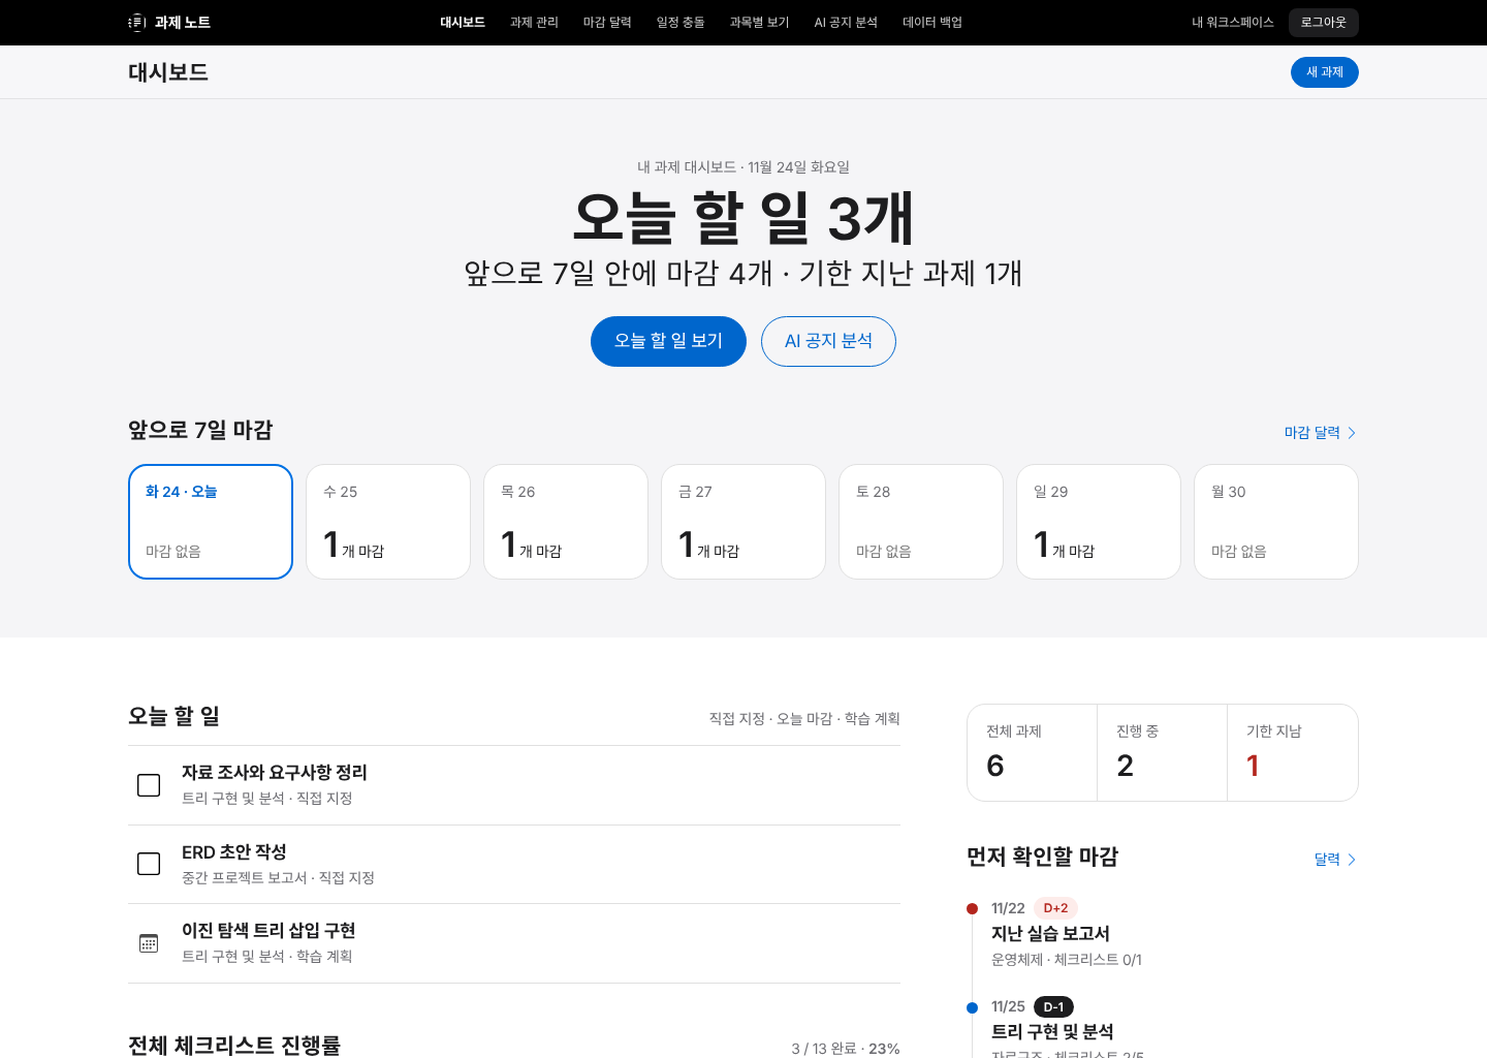
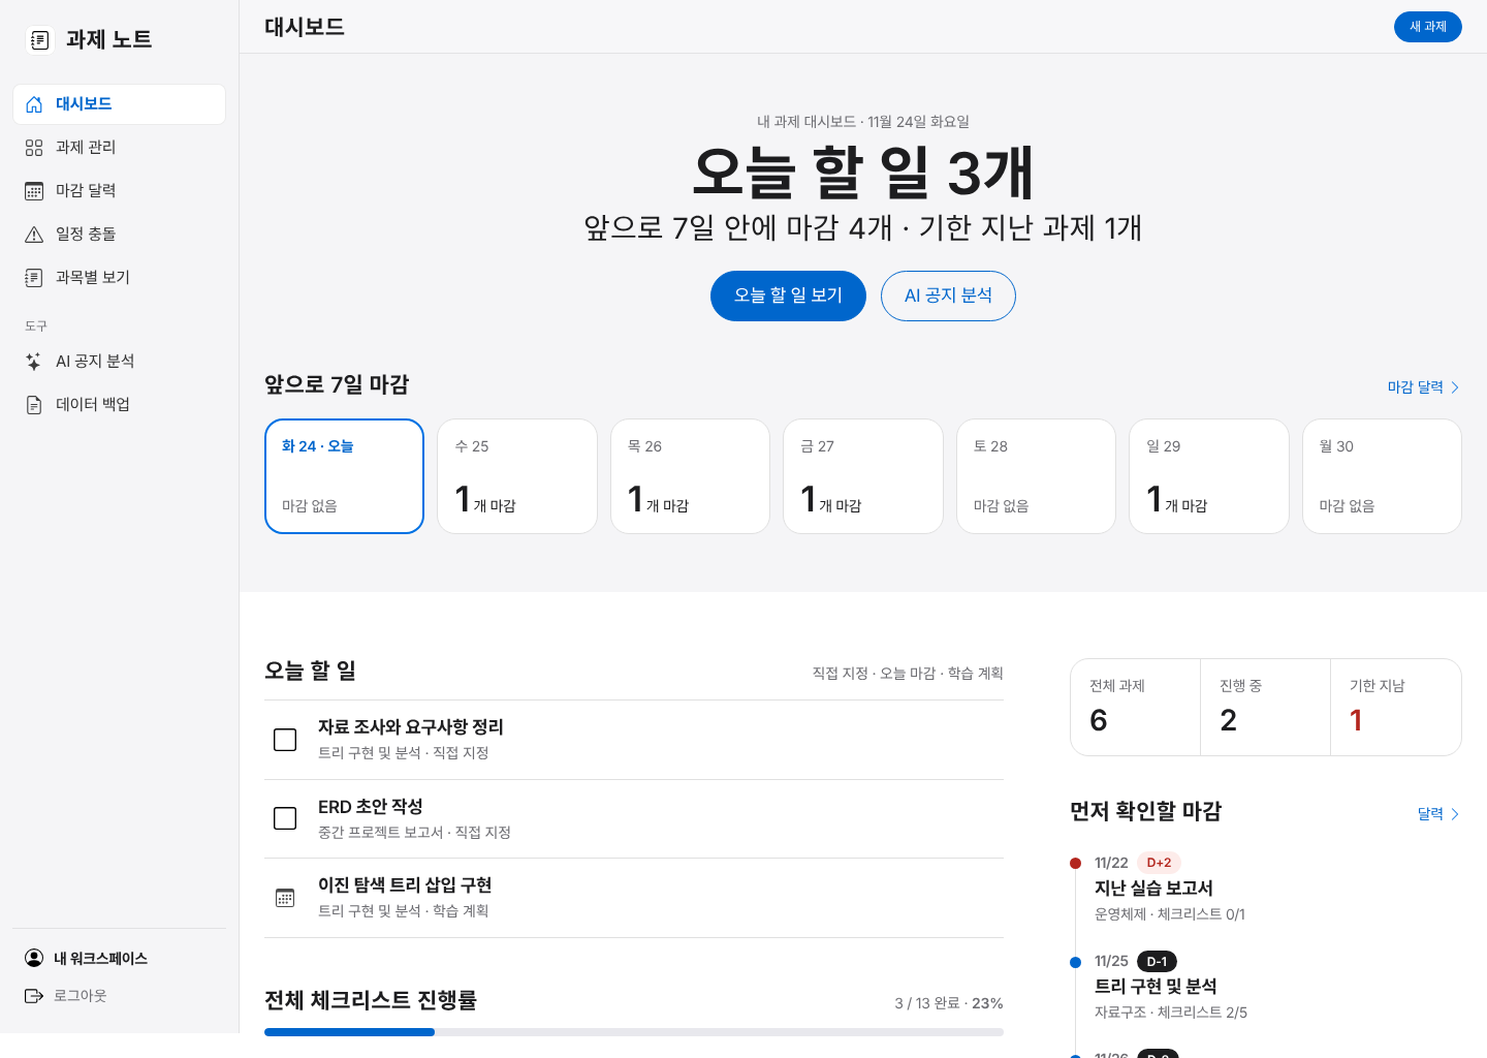
Restore left sidebar navigation; keep Apple-style system
User preference: workspace menus stay in the left sidebar. The black top
global nav is removed; the sidebar is restyled (parchment, Action Blue
active item, 도구 group) and the frosted sub-nav with the persistent
'새 과제' pill sits at the top of the main column.

Claude-Session: https://claude.ai/code/session_01T2rAALM4oYqPUfs2fbHRnG

diff --git a/static/css/ui.css b/static/css/ui.css
@@ -100,122 +100,115 @@ b {
   display: none;
 }
 
-/* ---------- Global nav (44px, true black) ---------- */
-.workspace .layout {
-  display: block;
+/* ---------- Left sidebar (parchment, quiet) ---------- */
+.workspace .sidebar {
+  width: 232px;
+  background: var(--parchment);
+  border-right: 1px solid rgba(0, 0, 0, 0.08);
+  padding: 20px 12px 16px;
+  display: flex;
+  flex-direction: column;
 }
-.global-nav {
-  position: sticky;
-  top: 0;
-  z-index: 40;
-  height: 44px;
-  background: var(--black);
-  color: #fff;
-}
-.global-nav-inner {
-  max-width: 1240px;
-  height: 44px;
-  margin: 0 auto;
-  padding: 0 24px;
+.workspace .brand {
   display: flex;
   align-items: center;
-  gap: 28px;
-}
-.global-nav .brand {
-  display: flex;
-  align-items: center;
-  gap: 8px;
-  padding: 0;
-  color: #fff;
-  font-size: 14px;
+  gap: 10px;
+  padding: 4px 12px 24px;
+  color: var(--ink);
+  font-size: 21px;
   font-weight: 600;
+  letter-spacing: 0.231px;
+  text-decoration: none;
+}
+.workspace .brand-icon {
+  width: 30px;
+  height: 30px;
+  padding: 6px;
+  border-radius: var(--radius-sm);
+  background: var(--canvas);
+  box-shadow: inset 0 0 0 1px rgba(0, 0, 0, 0.08);
+}
+.sidebar-label {
+  display: none;
+}
+.workspace .sidebar .nav {
+  display: flex;
+  align-items: center;
+  gap: 12px;
+  min-height: 40px;
+  margin: 2px 0;
+  padding: 8px 12px;
+  border-radius: var(--radius-sm);
+  color: var(--ink-80);
+  font-size: 15px;
+  font-weight: 400;
   letter-spacing: -0.224px;
   text-decoration: none;
-  white-space: nowrap;
+  background: none;
+  box-shadow: none;
 }
-.global-nav .brand-icon {
+.workspace .sidebar .nav .icon {
   width: 18px;
   height: 18px;
-  padding: 0;
-  margin: 0;
-  background: none;
-  filter: invert(1);
+  opacity: 0.75;
 }
-.global-links {
-  display: flex;
-  align-items: center;
-  gap: 4px;
-  flex: 1;
-  justify-content: center;
-  overflow-x: auto;
-  scrollbar-width: none;
+.workspace .sidebar .nav:hover {
+  background: rgba(0, 0, 0, 0.04);
 }
-.global-links .nav {
-  display: inline-flex;
-  align-items: center;
-  min-height: 32px;
-  margin: 0;
-  padding: 0 10px;
-  border-radius: 0;
-  background: none;
-  box-shadow: none;
-  color: rgba(255, 255, 255, 0.8);
-  font-size: 12px;
-  font-weight: 400;
-  letter-spacing: -0.12px;
-  text-decoration: none;
-  white-space: nowrap;
-}
-.global-links .nav:hover {
-  background: none;
-  color: #fff;
-}
-.global-links .nav.active {
-  background: none;
-  box-shadow: none;
-  color: #fff;
+.workspace .sidebar .nav.active {
+  background: var(--canvas);
+  color: var(--primary);
   font-weight: 600;
+  box-shadow: inset 0 0 0 1px rgba(0, 0, 0, 0.08);
 }
-.global-account {
+.workspace .sidebar .nav.active .icon {
+  opacity: 1;
+  filter: invert(27%) sepia(98%) saturate(1800%) hue-rotate(198deg) brightness(92%);
+}
+.nav-group-label {
+  font-size: 12px;
+  color: var(--muted);
+  letter-spacing: -0.12px;
+  margin: 18px 12px 6px;
+}
+.workspace .sidebar-bottom {
+  margin-top: auto;
+  padding: 14px 12px 0;
+  border-top: 1px solid rgba(0, 0, 0, 0.08);
+  color: var(--muted);
+  font-size: 14px;
+}
+.workspace .account-label {
   display: flex;
   align-items: center;
-  gap: 14px;
-  font-size: 12px;
-  letter-spacing: -0.12px;
-  color: rgba(255, 255, 255, 0.8);
-  white-space: nowrap;
+  gap: 10px;
+  margin: 2px 0 4px;
+  font-size: 14px;
+  font-weight: 600;
+  color: var(--ink);
 }
-.global-account form {
-  margin: 0;
-}
-.global-account a,
-.global-account .account-label {
-  color: rgba(255, 255, 255, 0.8);
-  margin: 0;
-  font-size: 12px;
-  font-weight: 400;
-}
-.global-account .logout-button {
-  min-height: 28px;
-  padding: 0 12px;
-  border-radius: var(--radius-sm);
+.workspace .logout-button {
+  display: flex;
+  align-items: center;
+  gap: 10px;
+  min-height: 40px;
+  padding: 8px 0;
   border: 0;
-  background: var(--ink);
-  color: #fff;
-  font-size: 12px;
+  background: none;
+  color: var(--muted);
+  font-size: 14px;
   cursor: pointer;
 }
-.global-account .logout-button:active {
-  transform: scale(0.95);
-}
-.global-nav .menu-toggle {
-  display: none !important;
+.workspace .account-label .icon,
+.workspace .logout-button .icon {
+  width: 18px;
+  height: 18px;
 }
 
 /* ---------- Frosted sub-nav (52px) ---------- */
 .sub-nav {
   position: sticky;
-  top: 44px;
+  top: 0;
   z-index: 30;
   height: 52px;
   background: rgba(245, 245, 247, 0.8);
@@ -254,9 +247,12 @@ b {
 
 /* ---------- Main column ---------- */
 .workspace .main {
-  margin-left: 0;
-  width: 100%;
-  min-height: calc(100vh - 96px);
+  margin-left: 232px;
+  width: calc(100% - 232px);
+  min-height: 100vh;
+}
+.sub-nav .menu-toggle {
+  display: none !important;
 }
 .content,
 .overview-content,
@@ -957,17 +953,8 @@ input[type="checkbox"] {
     display: block;
     font-size: 12px;
   }
-  .global-nav-inner {
-    gap: 16px;
-  }
-  .global-account .account-label {
-    display: none;
-  }
 }
 @media (max-width: 833px) {
-  .global-links .nav {
-    padding: 0 7px;
-  }
   .public-site .hero-copy h1,
   .public-site .public-content h1 {
     font-size: 40px;

diff --git a/templates/base.html b/templates/base.html
@@ -16,31 +16,30 @@
 <body class="{{ 'workspace' if signed_in else 'public-site' }}">
   <a class="skip-link" href="#main-content">본문으로 건너뛰기</a>
   <div class="layout">
-    {% if signed_in %}<header class="global-nav">
-      <div class="global-nav-inner">
-        <a class="brand" href="{{ url_for('dashboard') }}">{{ icon('journal-text', 'brand-icon') }}<span>과제 노트</span></a>
-        <button class="menu-toggle" aria-label="메뉴 열기" aria-controls="site-sidebar" aria-expanded="false" type="button">{{ icon('list') }} 메뉴</button>
-        <nav class="global-links" id="site-sidebar" aria-label="워크스페이스">
-        {% for endpoint, label in [('dashboard','대시보드'),('assignment_list','과제 관리'),('calendar_view','마감 달력'),('schedule_view','일정 충돌'),('courses','과목별 보기'),('ai_analyze','AI 공지 분석'),('backup_settings','데이터 백업')] %}
-          {% set nav_active = request.endpoint == endpoint or (endpoint == 'assignment_list' and request.endpoint in ('new_assignment','assignment_detail','edit_assignment')) %}
-          <a class="nav {{ 'active' if nav_active else '' }}" href="{{ url_for(endpoint) }}" {% if nav_active %}aria-current="page"{% endif %}>{{ label }}</a>
+    {% if signed_in %}<aside class="sidebar" id="site-sidebar" aria-label="주 메뉴">
+      <a class="brand" href="{{ url_for('dashboard') }}">{{ icon('journal-text', 'brand-icon') }}<span>과제 노트</span></a>
+      <nav aria-label="워크스페이스">
+        {% for group, endpoint, label, image in [('main','dashboard','대시보드','house-door'),('main','assignment_list','과제 관리','grid'),('main','calendar_view','마감 달력','calendar3'),('main','schedule_view','일정 충돌','exclamation-triangle'),('main','courses','과목별 보기','journal-text'),('tools','ai_analyze','AI 공지 분석','stars'),('tools','backup_settings','데이터 백업','file-earmark-text')] %}
+        {% if group == 'tools' and loop.previtem and loop.previtem[0] == 'main' %}<p class="nav-group-label" aria-hidden="true">도구</p>{% endif %}
+        {% set nav_active = request.endpoint == endpoint or (endpoint == 'assignment_list' and request.endpoint in ('new_assignment','assignment_detail','edit_assignment')) %}
+        <a class="nav {{ 'active' if nav_active else '' }}" href="{{ url_for(endpoint) }}" {% if nav_active %}aria-current="page"{% endif %}>{{ icon(image) }}<span>{{ label }}</span></a>
         {% endfor %}
-        </nav>
-        <div class="global-account">
-          {% if session.get('user_id') %}<span class="account-label">내 워크스페이스</span>
-          <form method="post" action="{{ url_for('logout') }}"><input type="hidden" name="csrf_token" value="{{ csrf_token }}"><button type="submit" class="logout-button">로그아웃</button></form>
-          {% else %}<a href="{{ url_for('login') }}">로그인</a>{% endif %}
-        </div>
+      </nav>
+      <div class="sidebar-bottom">
+        {% if session.get('user_id') %}
+        <div class="account-label">{{ icon('person-circle') }}<span>내 워크스페이스</span></div>
+        <form method="post" action="{{ url_for('logout') }}"><input type="hidden" name="csrf_token" value="{{ csrf_token }}"><button type="submit" class="logout-button">{{ icon('box-arrow-right') }} 로그아웃</button></form>
+        {% else %}<a class="nav" href="{{ url_for('login') }}">{{ icon('person-circle') }}<span>로그인</span></a>{% endif %}
       </div>
-    </header>
-    <div class="sub-nav">
-      <div class="sub-nav-inner">
-        <p class="sub-nav-title">{% block breadcrumb %}대시보드{% endblock %}</p>
-        <div class="sub-nav-actions"><a class="primary-button pill" href="{{ url_for('new_assignment') }}">새 과제</a></div>
-      </div>
-    </div>{% endif %}
+    </aside>{% endif %}
     <main class="main" id="main-content" tabindex="-1">
-      {% if not signed_in %}
+      {% if signed_in %}<div class="sub-nav">
+        <div class="sub-nav-inner">
+          <button class="menu-toggle secondary-button" aria-label="메뉴 열기" aria-controls="site-sidebar" aria-expanded="false" type="button">{{ icon('list') }} 메뉴</button>
+          <p class="sub-nav-title">{% block breadcrumb %}대시보드{% endblock %}</p>
+          <div class="sub-nav-actions"><a class="primary-button pill" href="{{ url_for('new_assignment') }}">새 과제</a></div>
+        </div>
+      </div>{% else %}
       <header class="marketing-header">
         <a class="marketing-brand" href="{{ url_for('dashboard') }}">{{ icon('journal-text', 'brand-icon') }} 과제 노트</a>
         <nav class="marketing-nav" aria-label="서비스 소개 메뉴"><a href="{{ url_for('dashboard') }}#features">주요 기능</a><a href="{{ url_for('dashboard') }}#how-it-works">사용 방법</a><a href="{{ url_for('dashboard') }}#ai">AI 분석</a></nav>
